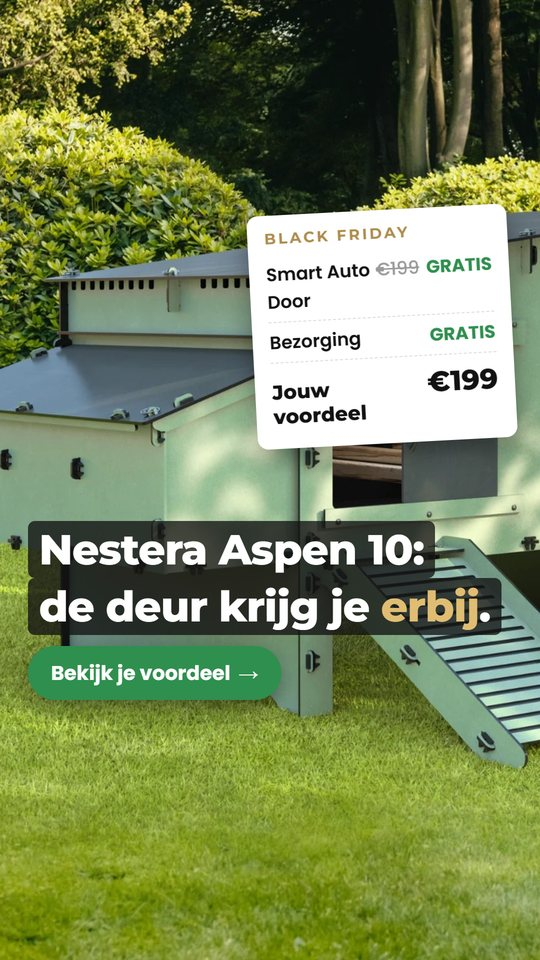
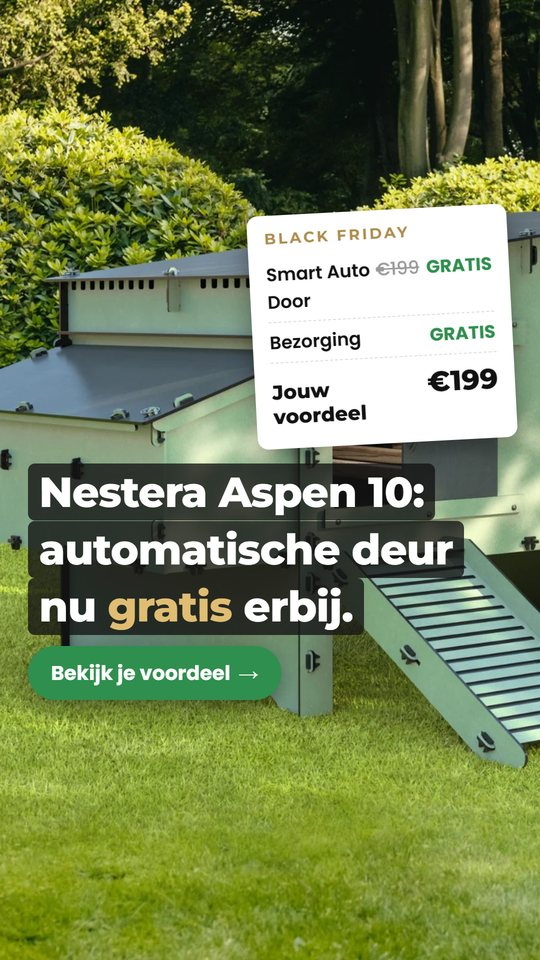
Aspen BF-ads: feedback Arjan - goedkoop houten hok in ad 5, automatische deur gratis in ad 4 en 7

Changed region(s): [[0.0296, 0.4688, 0.9481, 0.6875]]

diff --git a/ads-aspen/index.html b/ads-aspen/index.html
@@ -106,7 +106,7 @@ footer{padding-block:40px 60px;font-size:13px;line-height:1.6}footer ul{padding-
 <dt>Herkomst hook</dt><dd><span class="hk-eigen">EIGEN</span> Ad &quot;KV_Aspen10_Tuinslang&quot;: de meeste aankopen van de nieuwe Aspen-hooks (5). Ook Nestera&#x27;s eigen hoofdboodschap: schoon in een paar minuten.</dd>
 </dl></details></article><article class="ad" data-ab="oud"><div class="tg"><button class="on" data-f="f">Feed</button><button data-f="s">Story</button></div><div class="post">
  <div class="kp"><img class="av" src="icoon.png" alt=""><div><b>Kippenvilla</b><span>Gesponsord</span></div></div>
- <p class="prim">Nestera Aspen 10 + Smart Auto Door: de deur krijg je gratis 🎁<br><br>De deur gaat open als het licht wordt en dicht als het donker wordt, op zonne-energie. De opening zit al in het hok. Normaal €199, deze Black Friday gratis bij je Aspen 10.<br><br>Gratis bezorgd · van 20 t/m 30 november.</p>
+ <p class="prim">Nestera Aspen 10 + Smart Auto Door: de automatische deur is nu gratis extra 🎁<br><br>De Smart Auto Door gaat open als het licht wordt en dicht als het donker wordt, op zonne-energie. De opening zit al in het hok. Normaal €199, deze Black Friday gratis bij je Aspen 10.<br><br>Gratis bezorgd · van 20 t/m 30 november.</p>
  <div class="media"><img class="f" src="m/w4-gratis-extra-f.jpg" alt="" loading="lazy"><img class="s" src="m/w4-gratis-extra-s.jpg" alt="" loading="lazy"><span class="nrb">4</span></div>
  <div class="cta"><div><small>KIPPENVILLA.NL</small><b>Smart Auto Door t.w.v. €199 gratis</b><span>Bij je Nestera Aspen 10</span></div><a>Aanbieding ontvangen</a></div>
 </div><p class="meta"><b>Ad 4</b> · Statisch · <span class="eg">Op basis van wat werkt</span> · landt op <a href="https://createwithd.github.io/kippenvilla-preview/paginas/black-friday-aspen.html?maat=10&ren=nee#box" target="_blank" rel="noopener">salespagina, koopblok (Aspen 10 zonder ren voorgeselecteerd)</a></p>
@@ -121,8 +121,8 @@ footer{padding-block:40px 60px;font-size:13px;line-height:1.6}footer ul{padding-
  <div class="cta"><div><small>KIPPENVILLA.NL</small><b>Houten hok of Nestera Aspen?</b><span>Black Friday · gratis deuropener</span></div><a>Meer informatie</a></div>
 </div><p class="meta"><b>Ad 5</b> · Statisch · <span class="eg">Op basis van wat werkt</span> · landt op <a href="https://createwithd.github.io/kippenvilla-preview/paginas/black-friday-aspen.html?maat=10&ren=nee#hout" target="_blank" rel="noopener">salespagina, hout of kunststof (Aspen 10 zonder ren voorgeselecteerd)</a></p>
 <details class="ul"><summary>Uitleg: waarom deze ad?</summary><dl>
-<dt>Waarom deze ad</dt><dd>Hetzelfde bewezen formaat, nu boven/onder: bovenin een echte foto van een oud houten hok (public domain), onderin de Aspen. Met onze eigen punten (10 jaar garantie, in een kwartier schoon) plus de Black Friday-deal.</dd>
-<dt>Hoe gemaakt</dt><dd>Statische ad, door ons opgemaakt met echte productfoto&#x27;s van Kippenvilla/Nestera. Beeld: beelden/hout-oud.jpg (echte foto oud houten hok, public domain, Flickr LandBetweentheLakesKYTN) + a10-tuin.webp (productfoto Aspen 10).</dd>
+<dt>Waarom deze ad</dt><dd>Hetzelfde bewezen formaat, nu boven/onder: bovenin een goedkoop houten webshophok na twee winters (Higgsfield-beeld, op verzoek van Kippenvilla: het type dat snel in elkaar zakt), onderin de Aspen. Met onze eigen punten (10 jaar garantie, in een kwartier schoon) plus de Black Friday-deal.</dd>
+<dt>Hoe gemaakt</dt><dd>Statische ad, door ons opgemaakt met echte productfoto&#x27;s van Kippenvilla/Nestera. Beeld: beelden/hout-goedkoop.jpg (Higgsfield-beeld: goedkoop houten webshophok na twee winters) + a10-tuin.webp (productfoto Aspen 10).</dd>
 <dt>Herkomst hook</dt><dd><span class="hk-nestera">NESTERA</span> Nestera Benelux laat al maanden een splitscreen lopen: links &quot;HOUTEN&quot; met rode kruisjes, rechts &quot;NESTERA&quot; met groene vinkjes (swipe-file augustus). Een ad die zo lang blijft lopen, verkoopt.</dd>
 </dl></details></article></div></div></section><section class="gutter" id="actie"><div class="wrap"><h2>Black Friday-deal centraal<small class="cnt">8 ads</small></h2><p class="uitleg">De deal zelf is de hook: gratis deuropener t.w.v. €199 bij de Aspen 10 (of 10% korting), gratis bezorgd, alleen van 20 t/m 30 november. Plus ads met een vanaf-prijs voor wie op prijs vergelijkt. Voor brede doelgroepen en retargeting.</p><div class="grid"><article class="ad" data-ab="nieuw"><div class="tg"><button class="on" data-f="f">Feed</button><button data-f="s">Story</button></div><div class="post">
  <div class="kp"><img class="av" src="icoon.png" alt=""><div><b>Kippenvilla</b><span>Gesponsord</span></div></div>
@@ -136,9 +136,9 @@ footer{padding-block:40px 60px;font-size:13px;line-height:1.6}footer ul{padding-
 <dt>Herkomst hook</dt><dd><span class="hk-avatar">AVATAR</span> Breed (alle avatars, vooral de dealzoeker). Het aanbod is de hook.</dd>
 </dl></details></article><article class="ad" data-ab="nieuw"><div class="tg"><button class="on" data-f="f">Feed</button><button data-f="s">Story</button></div><div class="post">
  <div class="kp"><img class="av" src="icoon.png" alt=""><div><b>Kippenvilla</b><span>Gesponsord</span></div></div>
- <p class="prim">Aspen 10: de deur krijg je erbij 🧾<br><br>Smart Auto Door: normaal €199, deze week gratis. Bezorging: gratis. Jij krijgt een kunststof kippenhok dat in een kwartier schoon is en 10 jaar garantie heeft.<br><br>Van 20 t/m 30 november.</p>
+ <p class="prim">Aspen 10: de automatische deur krijg je er gratis bij 🧾<br><br>Smart Auto Door: normaal €199, deze week gratis. Bezorging: gratis. Jij krijgt een kunststof kippenhok dat in een kwartier schoon is en 10 jaar garantie heeft.<br><br>Van 20 t/m 30 november.</p>
  <div class="media"><img class="f" src="m/a2-bon-f.jpg" alt="" loading="lazy"><img class="s" src="m/a2-bon-s.jpg" alt="" loading="lazy"><span class="nrb">7</span></div>
- <div class="cta"><div><small>KIPPENVILLA.NL</small><b>Deur €199 → gratis</b><span>Nestera Aspen 10 · Black Friday</span></div><a>Nu kopen</a></div>
+ <div class="cta"><div><small>KIPPENVILLA.NL</small><b>Deuropener €199 → gratis</b><span>Nestera Aspen 10 · Black Friday</span></div><a>Nu kopen</a></div>
 </div><p class="meta"><b>Ad 7</b> · Statisch · <span class="nw">Nieuw</span> · landt op <a href="https://createwithd.github.io/kippenvilla-preview/paginas/black-friday-aspen.html?maat=10&ren=nee#box" target="_blank" rel="noopener">salespagina, koopblok (Aspen 10 zonder ren voorgeselecteerd)</a></p>
 <details class="ul"><summary>Uitleg: waarom deze ad?</summary><dl>
 <dt>Waarom deze ad</dt><dd>Een kassabon met de doorgestreepte €199 en GRATIS, over de productfoto. Geen hokprijs, alleen het voordeel.</dd>
@@ -183,7 +183,7 @@ footer{padding-block:40px 60px;font-size:13px;line-height:1.6}footer ul{padding-
 <details class="ul"><summary>Uitleg: waarom deze ad?</summary><dl>
 <dt>Waarom deze ad</dt><dd>Productfoto met prijslabel €899 en de gratis deur als badge: het totaalpakket in één beeld.</dd>
 <dt>Hoe gemaakt</dt><dd>Statische ad, door ons opgemaakt met echte productfoto&#x27;s van Kippenvilla/Nestera. Beeld: beelden/a10-wit.webp (productfoto Aspen 10).</dd>
-<dt>Herkomst hook</dt><dd><span class="hk-avatar">AVATAR</span> De dealzoeker die prijzen vergelijkt. Voor het losse hok geeft Nestera zelf deze Black Friday niets extra; bij Kippenvilla krijg je de deur van €199 erbij.</dd>
+<dt>Herkomst hook</dt><dd><span class="hk-avatar">AVATAR</span> De dealzoeker die prijzen vergelijkt. Voor het losse hok geeft Nestera zelf deze Black Friday niets extra; bij Kippenvilla krijg je de automatische deur van €199 erbij.</dd>
 </dl></details></article><article class="ad" data-ab="nieuw"><div class="tg"><button class="on" data-f="f">Feed</button><button data-f="s">Story</button></div><div class="post">
  <div class="kp"><img class="av" src="icoon.png" alt=""><div><b>Kippenvilla</b><span>Gesponsord</span></div></div>
  <p class="prim">Deuropener: gratis. Bezorging: gratis. 🖤<br><br>Black Friday bij Kippenvilla: de Smart Auto Door (t.w.v. €199) gratis bij je Nestera Aspen 10.<br><br>Van 20 t/m 30 november.</p>
